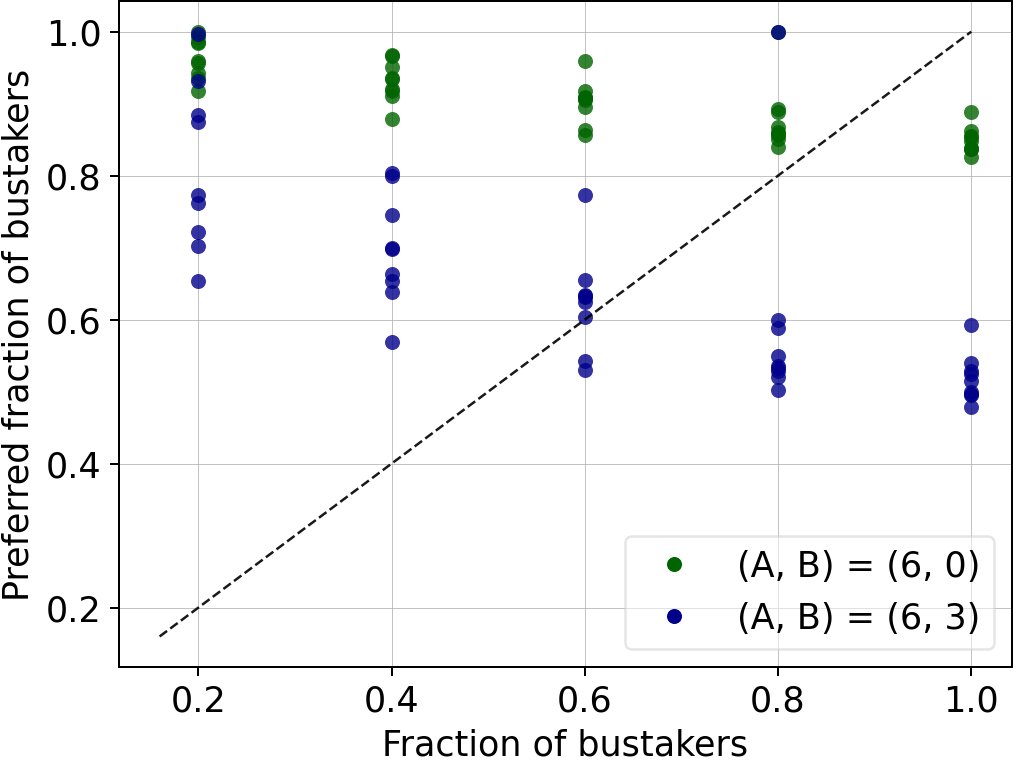
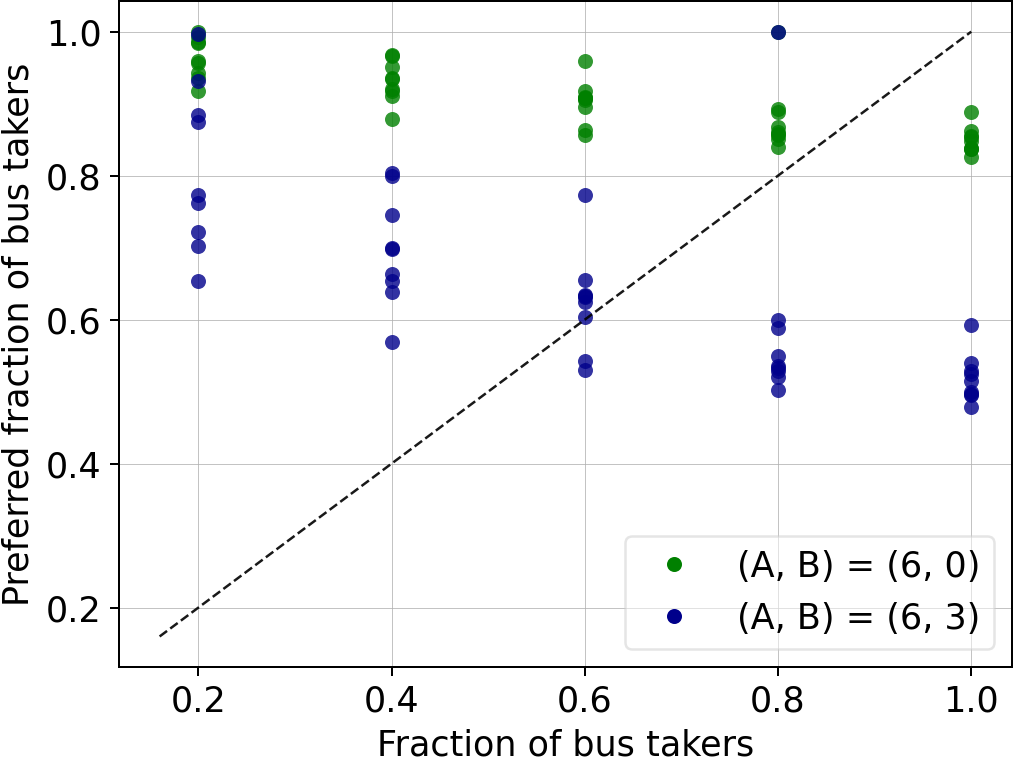
evo plots

diff --git a/code/work/20210616-OPT1/e_evo_plots.py b/code/work/20210616-OPT1/e_evo_plots.py
@@ -20,7 +20,7 @@ style = {
 def plot_evo(grid: pd.DataFrame) -> Plox:
     with Plox(style) as px:
         for (n, ((A, B), grid)) in enumerate(grid.groupby(by=['A', 'B'])):
-            c = ["darkgreen", "darkblue", "darkorange", "darkred"][n]
+            c = ["green", "darkblue", "darkorange", "darkred"][n]
 
             px.a.plot(np.nan, np.nan, '.',  c=c, ms=10, label=f"(A, B) = {(A, B)}")
 
@@ -38,8 +38,8 @@ def plot_evo(grid: pd.DataFrame) -> Plox:
 
         px.a.legend(loc='lower right')
 
-        px.a.set_xlabel("Fraction of bustakers")
-        px.a.set_ylabel("Preferred fraction of bustakers")
+        px.a.set_xlabel("Fraction of bus takers")
+        px.a.set_ylabel("Preferred fraction of bus takers")
 
         yield px
 
